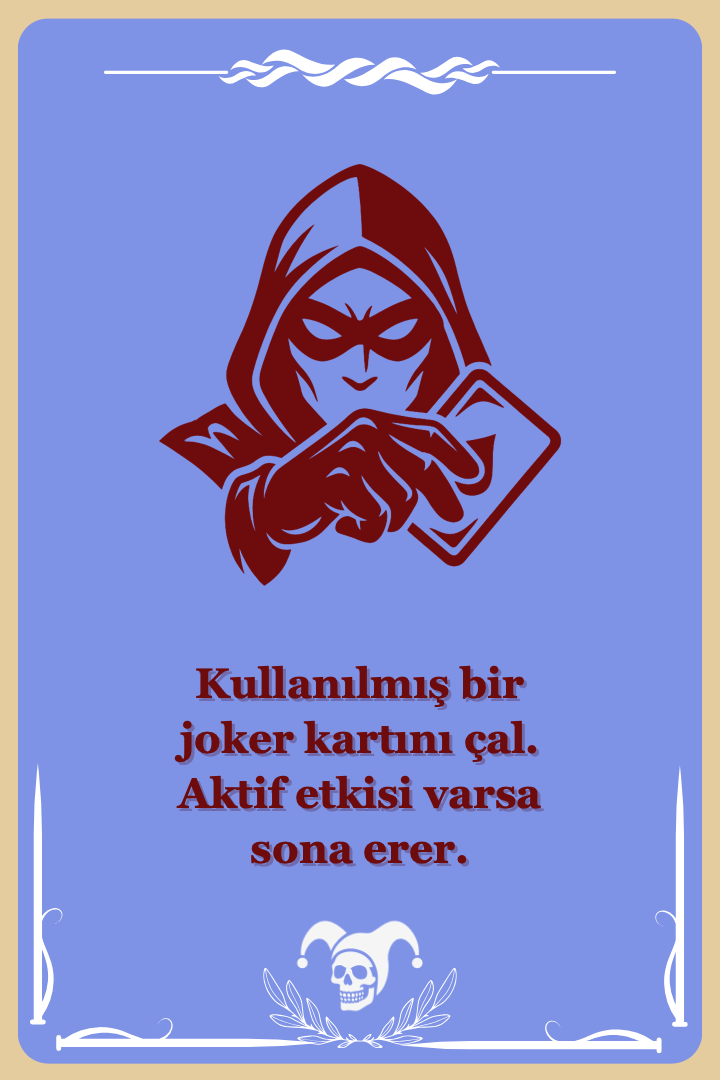
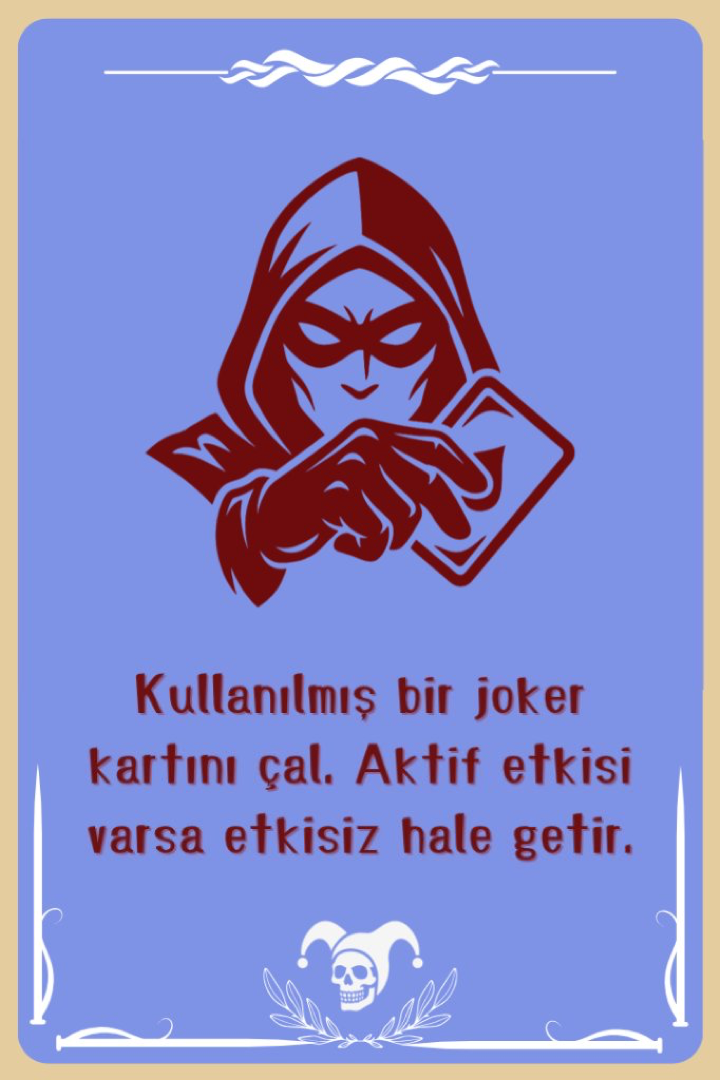
Update Thief Joker card (img/j/25.png) with user-finalized 720x1080 artwork

diff --git a/game.js b/game.js
@@ -13,7 +13,7 @@ const NEED={6:['any'],7:['any'],12:['eff'],13:['my'],14:['opp'],15:['my','opp'],
 const KTXT_TR={any:'bir sayı kartı seç',my:'kendi açık kartını seç',opp:'rakibin açık kartını seç',eff:'etkisiz kılınacak jokeri seç',sign:'ekle mi çıkar mı?',steal_j:'yerden çalınacak jokeri seç'};
 const KTXT_EN={any:'select a number card',my:'select your open card',opp:'select opponent\'s open card',eff:'select a joker to negate',sign:'add or subtract?',steal_j:'select a used joker to steal'};
 let KTXT={...KTXT_TR};
-const THIEF_SVG_TR='img/j/25.png?v=20261122_thief2';
+const THIEF_SVG_TR='img/j/25.png?v=20261123_thief3';
 const THIEF_SVG_EN='img/j/25_en.png?v=20261122_thief2';
 if(typeof IMG!=='undefined'&&IMG.j){IMG.j[25]=THIEF_SVG_TR;if(IMG.j_tr)IMG.j_tr[25]=THIEF_SVG_TR;if(IMG.j_en)IMG.j_en[25]=THIEF_SVG_EN;}
 const shuf=a=>{for(let i=a.length-1;i>0;i--){const j=Math.random()*(i+1)|0;[a[i],a[j]]=[a[j],a[i]]}return a};

diff --git a/sw.js b/sw.js
@@ -1,4 +1,4 @@
-const C='nd-v249-imp-no-lowpass';
+const C='nd-v250-thief-card-final';
 self.addEventListener('install',e=>{e.waitUntil(caches.open(C).then(c=>c.addAll(['./','index.html','style.css','retro.css','game.js','images.js','manifest.json']).catch(()=>{})));self.skipWaiting()});
 self.addEventListener('activate',e=>e.waitUntil(caches.keys().then(k=>Promise.all(k.filter(x=>x!=C).map(x=>caches.delete(x)))).then(()=>self.clients.claim())));
 self.addEventListener('fetch',e=>{

diff --git a/index.html b/index.html
@@ -86,6 +86,6 @@
 <script src="audio_data.js?v=20261114_tavern1"></script>
 <script src="hd.js?v=20261115_hs11"></script>
 <script src="d20_canvas.js?v=20261121_lnum"></script>
-<script src="game.js?v=20261123_imp_no_lowpass"></script>
+<script src="game.js?v=20261123_thief3"></script>
 </body>
 </html>
